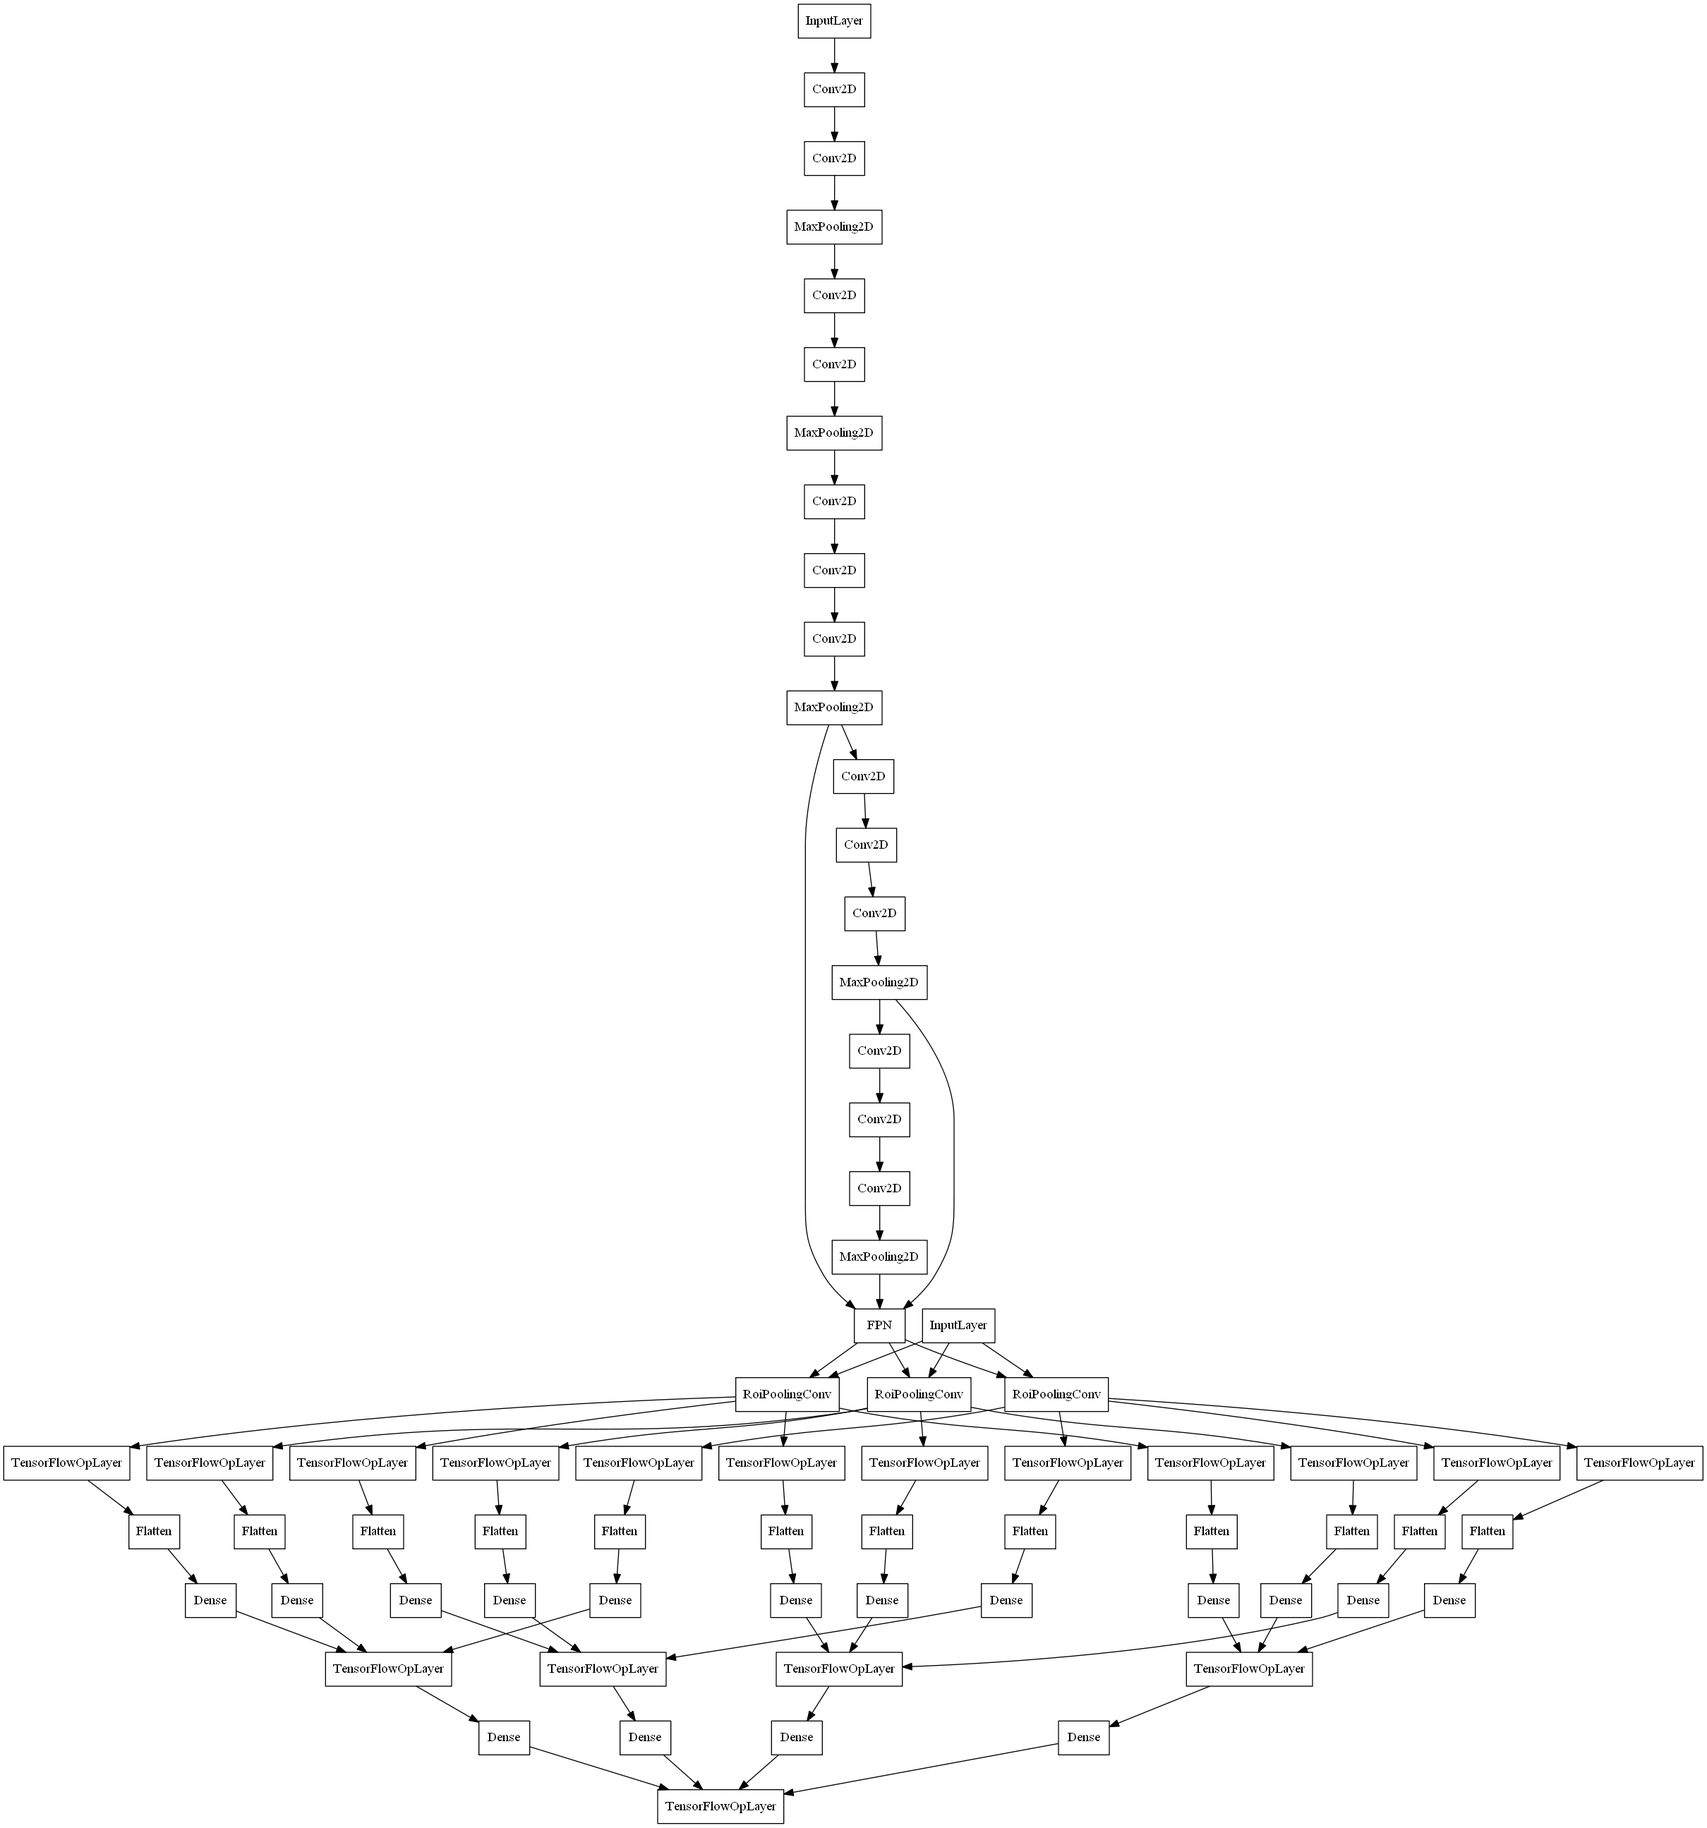
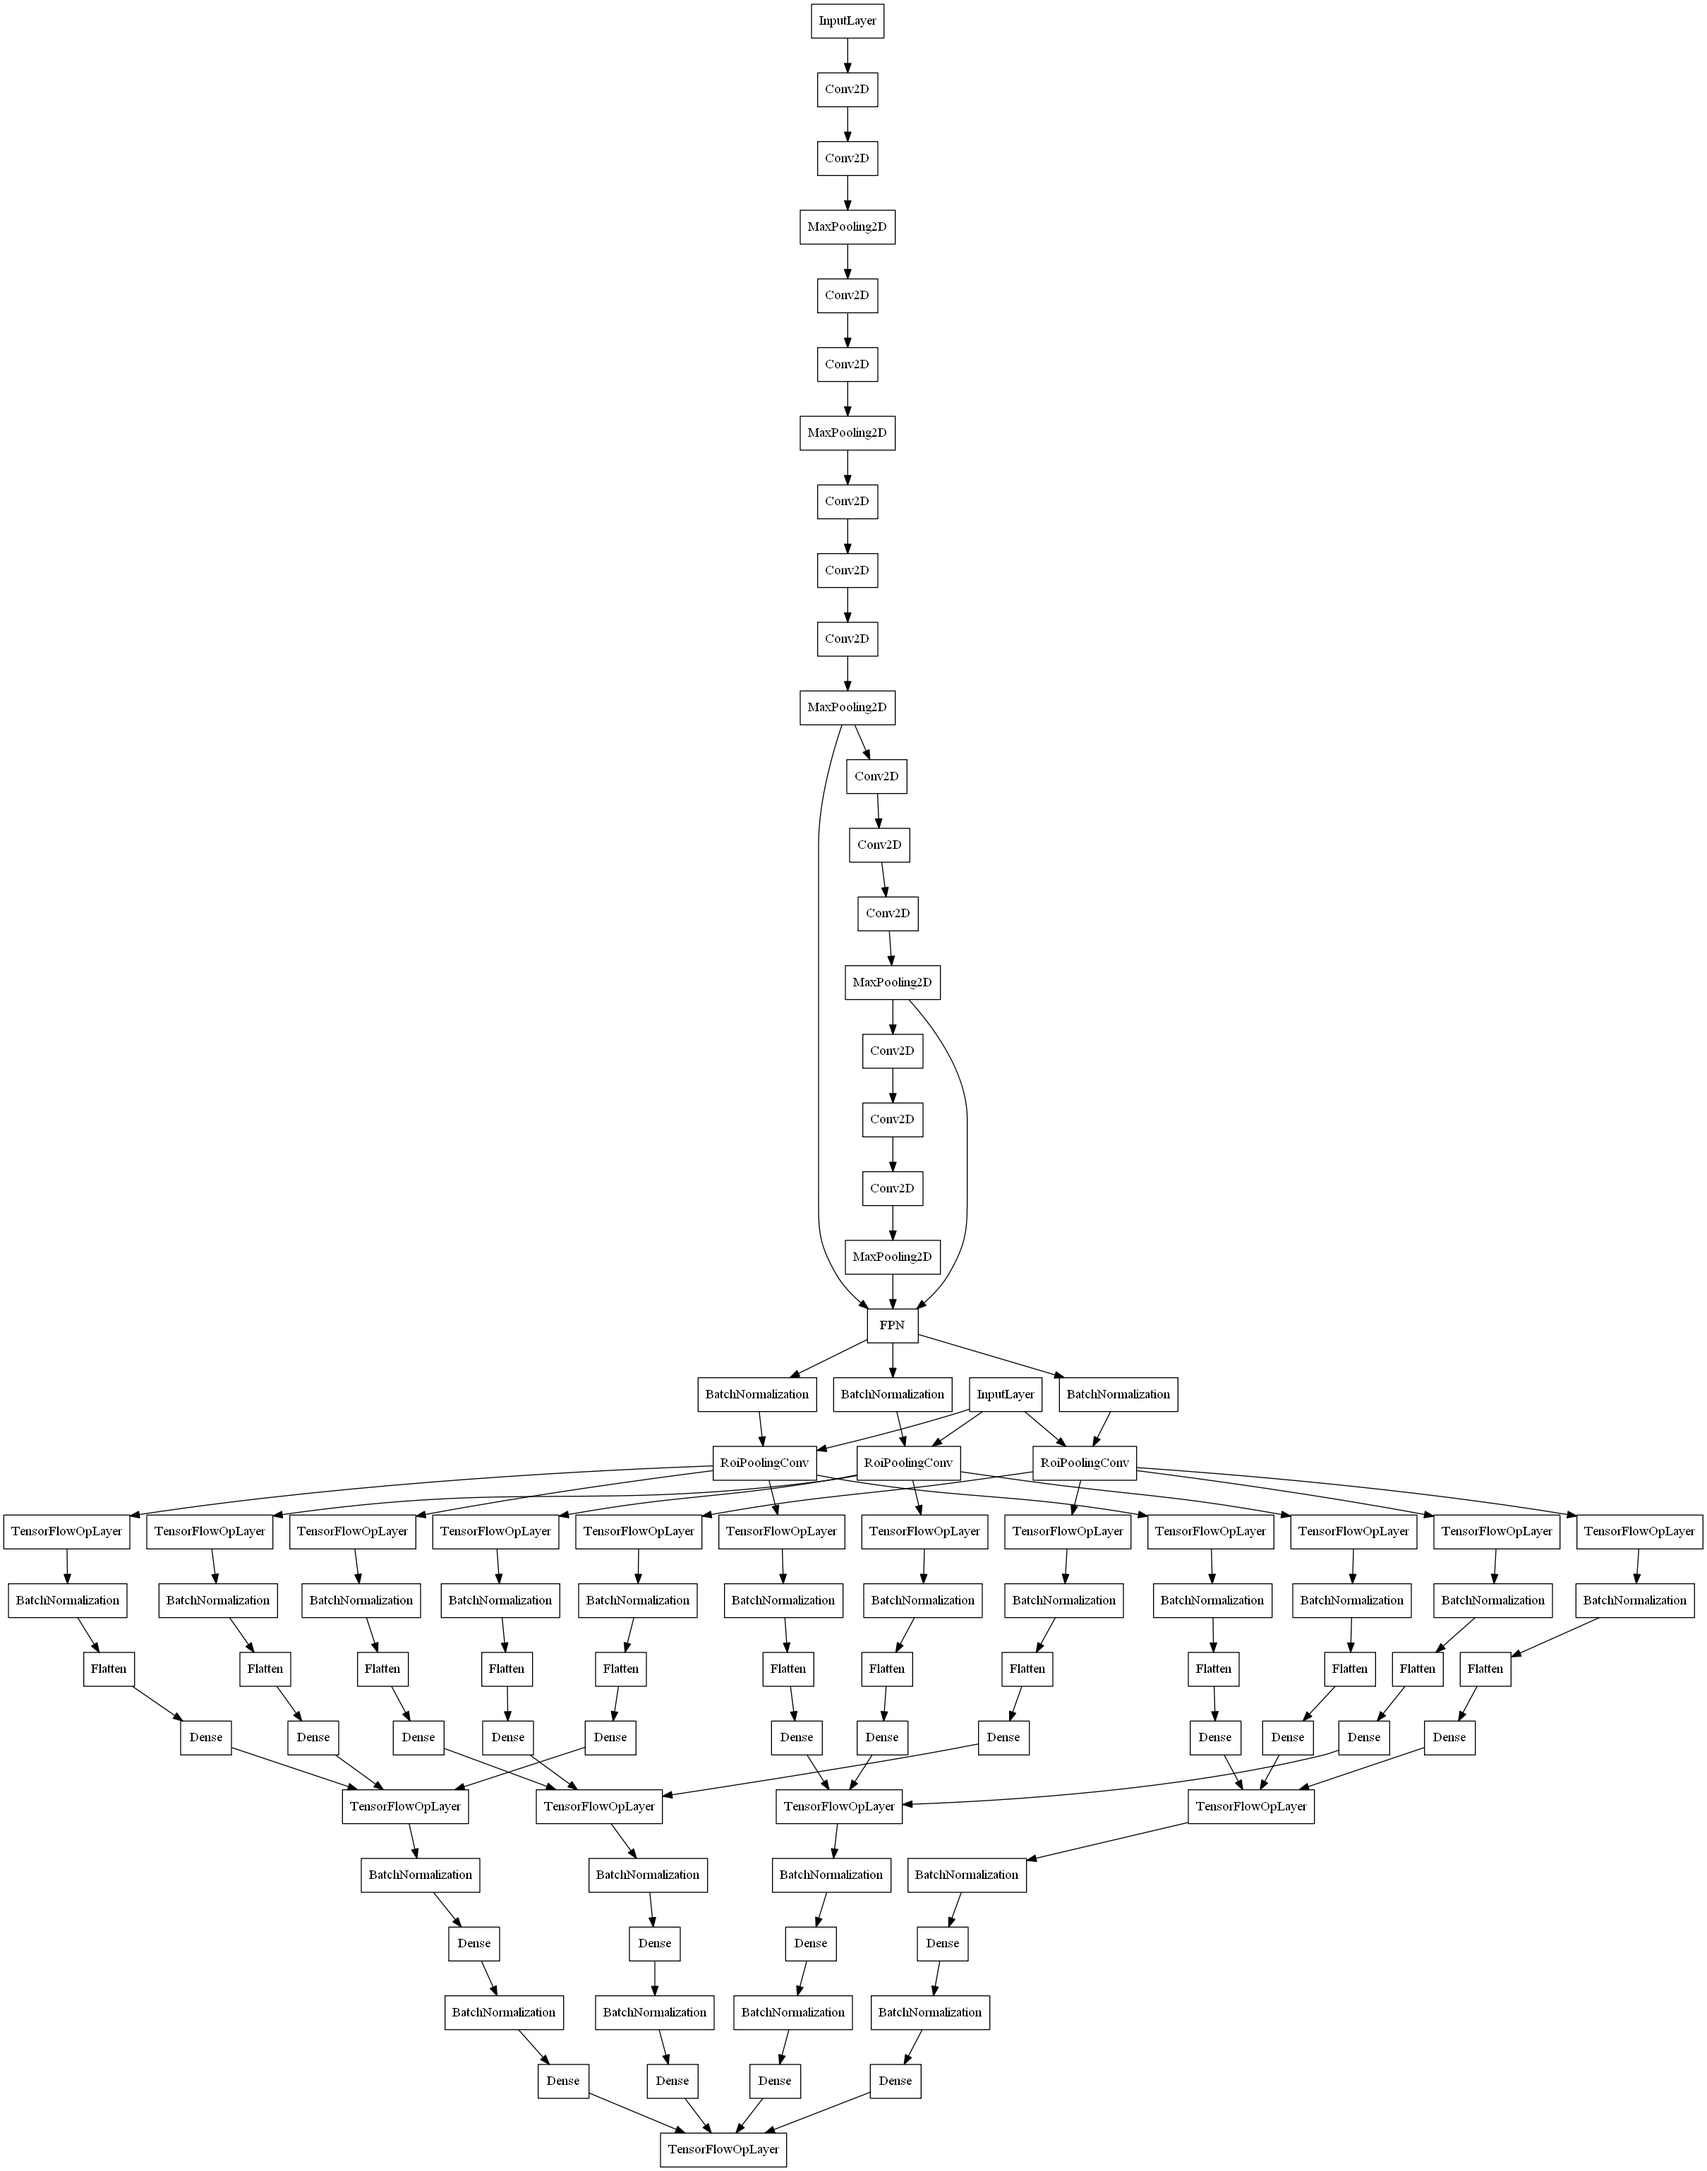
NaN loss seems to be fixed, but pending verification with more epochs

diff --git a/FPN.py b/FPN.py
@@ -11,7 +11,7 @@ from sklearn.model_selection import train_test_split
 from sklearn.preprocessing import LabelBinarizer
 from tensorflow.keras import Model
 from tensorflow.keras.callbacks import ModelCheckpoint
-from tensorflow.keras.layers import Dense, Flatten, Conv2D, MaxPooling2D, Add, UpSampling2D, Input
+from tensorflow.keras.layers import Dense, Flatten, Conv2D, MaxPooling2D, Add, UpSampling2D, Input, BatchNormalization
 from tensorflow.keras.optimizers import Adam
 from tqdm import tqdm
 from ROI_Pooling import RoiPoolingConv
@@ -34,7 +34,7 @@ class OneHotGen(LabelBinarizer):
 
 EP = 100
 BS = 4
-pooled_square_size = 2
+pooled_square_size = 3
 path = "Images"
 annotation = "Airplanes_Annotations"
 num_rois = 4
@@ -134,31 +134,37 @@ def process_image_and_rois(train_images, train_labels, ss_results, gt_values, im
     max_rois_per_batch = 4
     resized = cv2.resize(image_out, (224, 224), interpolation=cv2.INTER_AREA)
     resized = resized.reshape((224, 224, 3))
-    rois, labels = rois_pack_up(ss_results, gt_values)
-    for i in range(0, int(len(rois) / max_rois_per_batch)):
-        train_labels.append(
-            np.array(
-                labels[i * max_rois_per_batch:(i + 1) * max_rois_per_batch]
-            ).reshape(max_rois_per_batch, 2)
-        )
-        train_images.append(
-            [
-                resized,
+    rois, labels, skip = rois_pack_up(ss_results, gt_values)
+    if not skip:
+        for i in range(0, int(len(rois) / max_rois_per_batch)):
+            train_labels.append(
                 np.array(
-                    rois[i * max_rois_per_batch:(i + 1) * max_rois_per_batch]
-                ).reshape(max_rois_per_batch, 4)
-            ]
-        )
+                    labels[i * max_rois_per_batch:(i + 1) * max_rois_per_batch]
+                ).reshape(max_rois_per_batch, 2)
+            )
+            train_images.append(
+                [
+                    resized,
+                    np.array(
+                        rois[i * max_rois_per_batch:(i + 1) * max_rois_per_batch]
+                    ).reshape(max_rois_per_batch, 4)
+                ]
+            )
+    else:
+        print("Due to too many negative samples, skip this img")
     return train_images, train_labels
 
 
 def rois_pack_up(ss_results, gt_values):
+    skip = False
     smallest_fm_size = 7
     src_img_size = 256
     th = src_img_size / smallest_fm_size
     rois_count_per_img = 200
     rois = []
     labels = []
+    false_count = 0
+    length = len(rois)
     for e, result in enumerate(ss_results):
         x, y, w, h = result
         x1 = x
@@ -182,7 +188,7 @@ def rois_pack_up(ss_results, gt_values):
                     y2 / src_img_size
                 ]
             )
-        elif iou < 0.3:
+        elif iou < 0.3 and false_count <= int(0.5 * length):
             labels.append([1, 0])
             rois.append(
                 [
@@ -192,16 +198,17 @@ def rois_pack_up(ss_results, gt_values):
                     y2 / src_img_size
                 ]
             )
-
-    length = len(rois)
+            false_count += 1
+        length = len(rois)
     for i in range(0, rois_count_per_img - length):
         index = random.randint(0, length - 1)
         rois.append(rois[index])
         labels.append(labels[index])
-
     rois = rois[:rois_count_per_img]
     labels = labels[:rois_count_per_img]
-    return rois, labels
+    if labels.count([1, 0]) >= 0.5 * len(labels):
+        skip = True
+    return rois, labels, skip
 
 
 def process_annotation_file(i):
@@ -344,7 +351,6 @@ class FPN(Model):
 
 
 def build_model():
-    # TODO: Need to change network structure to adapt num_rois
     vgg_model = tf.keras.applications.VGG16(weights='imagenet', include_top=True)
     roi_input = Input(shape=(num_rois, 4), name="input_2")
     v16_layer_indices = [10, 14, 18]
@@ -352,12 +358,13 @@ def build_model():
     for each in v16_layer_indices:
         fpn_input.append(vgg_model.layers[each].output)
     fpn_result = FPN()(fpn_input)
-    for layers in vgg_model.layers[:9]:
+    for layers in vgg_model.layers:
         layers.trainable = False
     roi_result = []
 
     for i in range(0, len(fpn_result)):
-        x = RoiPoolingConv(pooled_square_size, num_rois)([fpn_result[i], roi_input])
+        x = BatchNormalization()(fpn_result[i])
+        x = RoiPoolingConv(pooled_square_size, num_rois)([x, roi_input])
         roi_result.append(x)
     cls_result = []
     fpn_len = len(roi_result)
@@ -365,15 +372,19 @@ def build_model():
         x_list = []
         for j in range(0, fpn_len):
             roi_list = tf.split(roi_result[j], num_rois, 1)
-            x = Flatten(name='flat_afterRP_' + str(i) + "_" + str(j))(roi_list[i])
-            x = Dense(2, activation='relu')(x)
+            x = BatchNormalization()(roi_list[i])
+            x = Flatten(name='flat_afterRP_' + str(i) + "_" + str(j))(x)
+            x = Dense(64, activation='relu')(x)
             x_list.append(x)
         x = tf.concat(x_list, axis=1)
+        x = BatchNormalization()(x)
+        x = Dense(64, activation='relu')(x)
+        x = BatchNormalization()(x)
         x = Dense(2, activation='softmax')(x)
         cls_result.append(x)
     x = tf.stack(cls_result, axis=1)
     model_final = Model(inputs=[vgg_model.input, roi_input], outputs=x)
-    opt = Adam(lr=0.0001)
+    opt = Adam(lr=0.00001)
     model_final.compile(
         loss=keras.losses.CategoricalCrossentropy(),
         optimizer=opt,
@@ -383,7 +394,7 @@ def build_model():
     return model_final
 
 
-def train(NewModel=False, GenData=False, UseFPN=True):
+def train(NewModel=False, GenData=False):
     devices = tf.config.experimental.list_physical_devices(device_type='GPU')
     print(devices)
     for gpu in devices:
@@ -403,7 +414,7 @@ def train(NewModel=False, GenData=False, UseFPN=True):
     if GenData:
         x_new, y_new = data_generator()
     else:
-        x_new, y_new = data_loader(LoadStart=5000, LoadCount=8000)
+        x_new, y_new = data_loader()
     x_images = []
     x_rois = []
     for each in tqdm(x_new):
@@ -427,7 +438,7 @@ def train(NewModel=False, GenData=False, UseFPN=True):
         save_freq='epoch'
     )
     with tf.device('/gpu:0'):
-        hist = model_final.fit(
+        model_final.fit(
             [x_images, x_rois],
             y,
             verbose=1,
@@ -512,4 +523,4 @@ def test_model_od():
             plt.show()
 
 
-test_model_cl()
+train()
